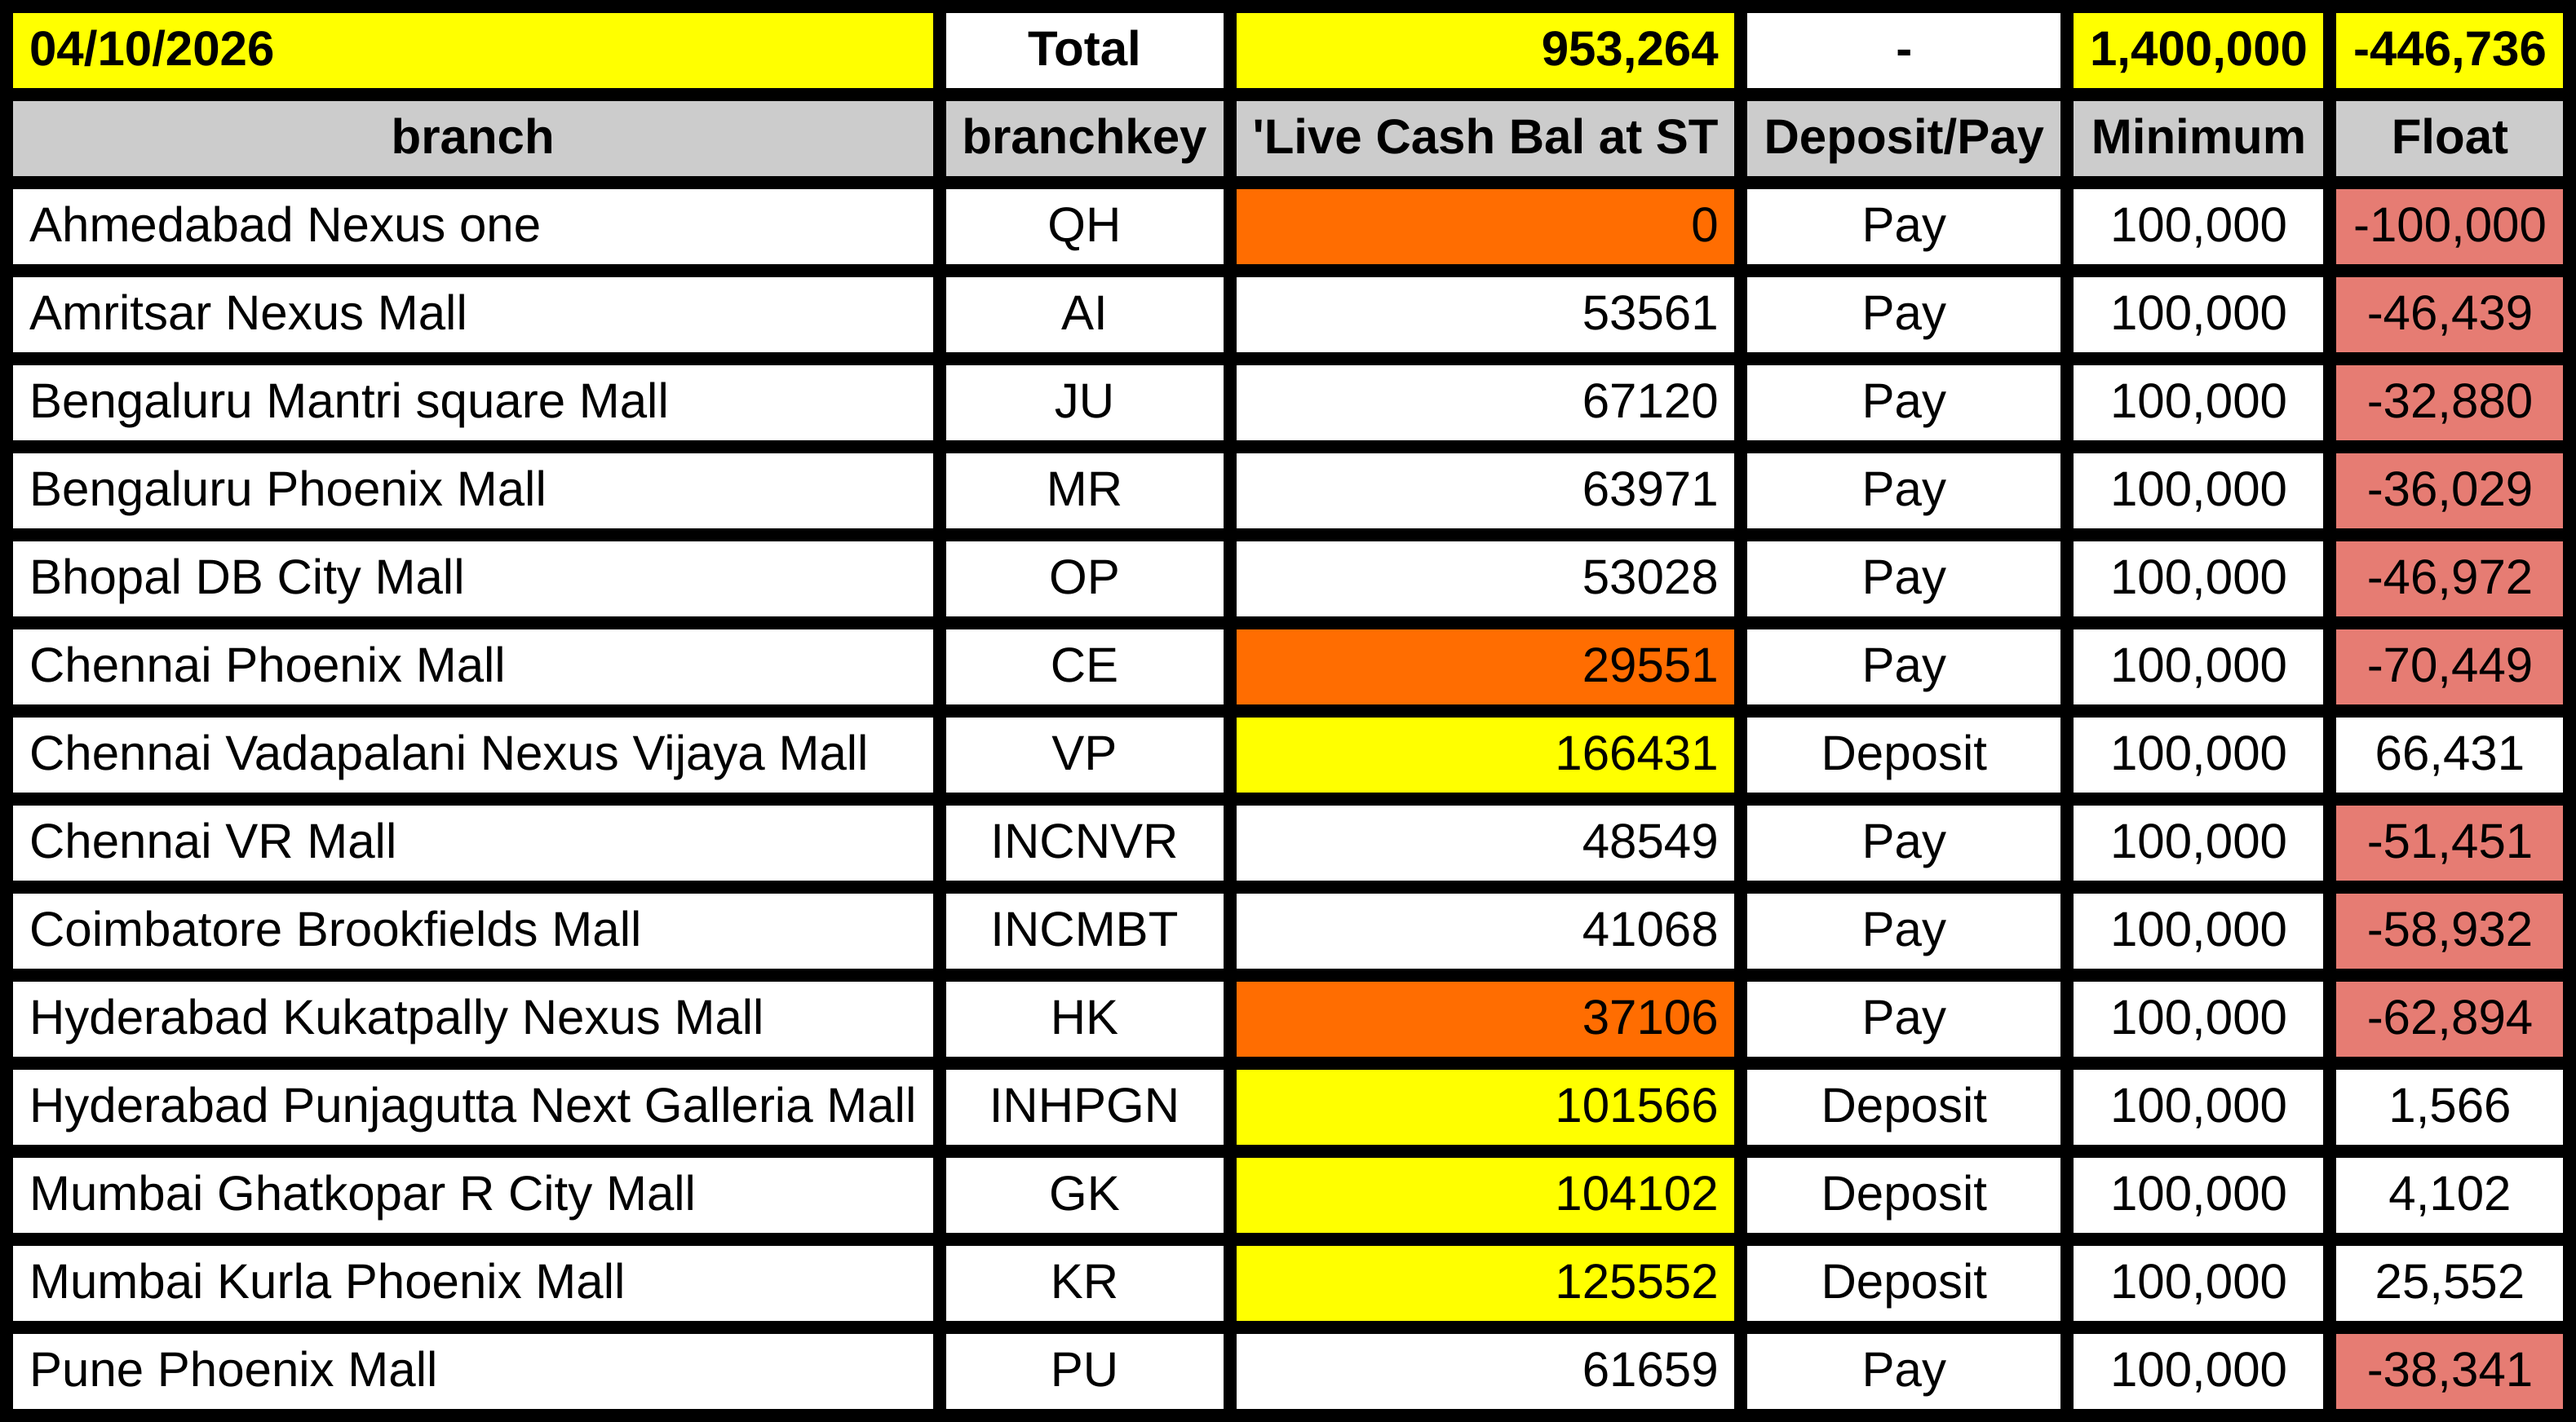
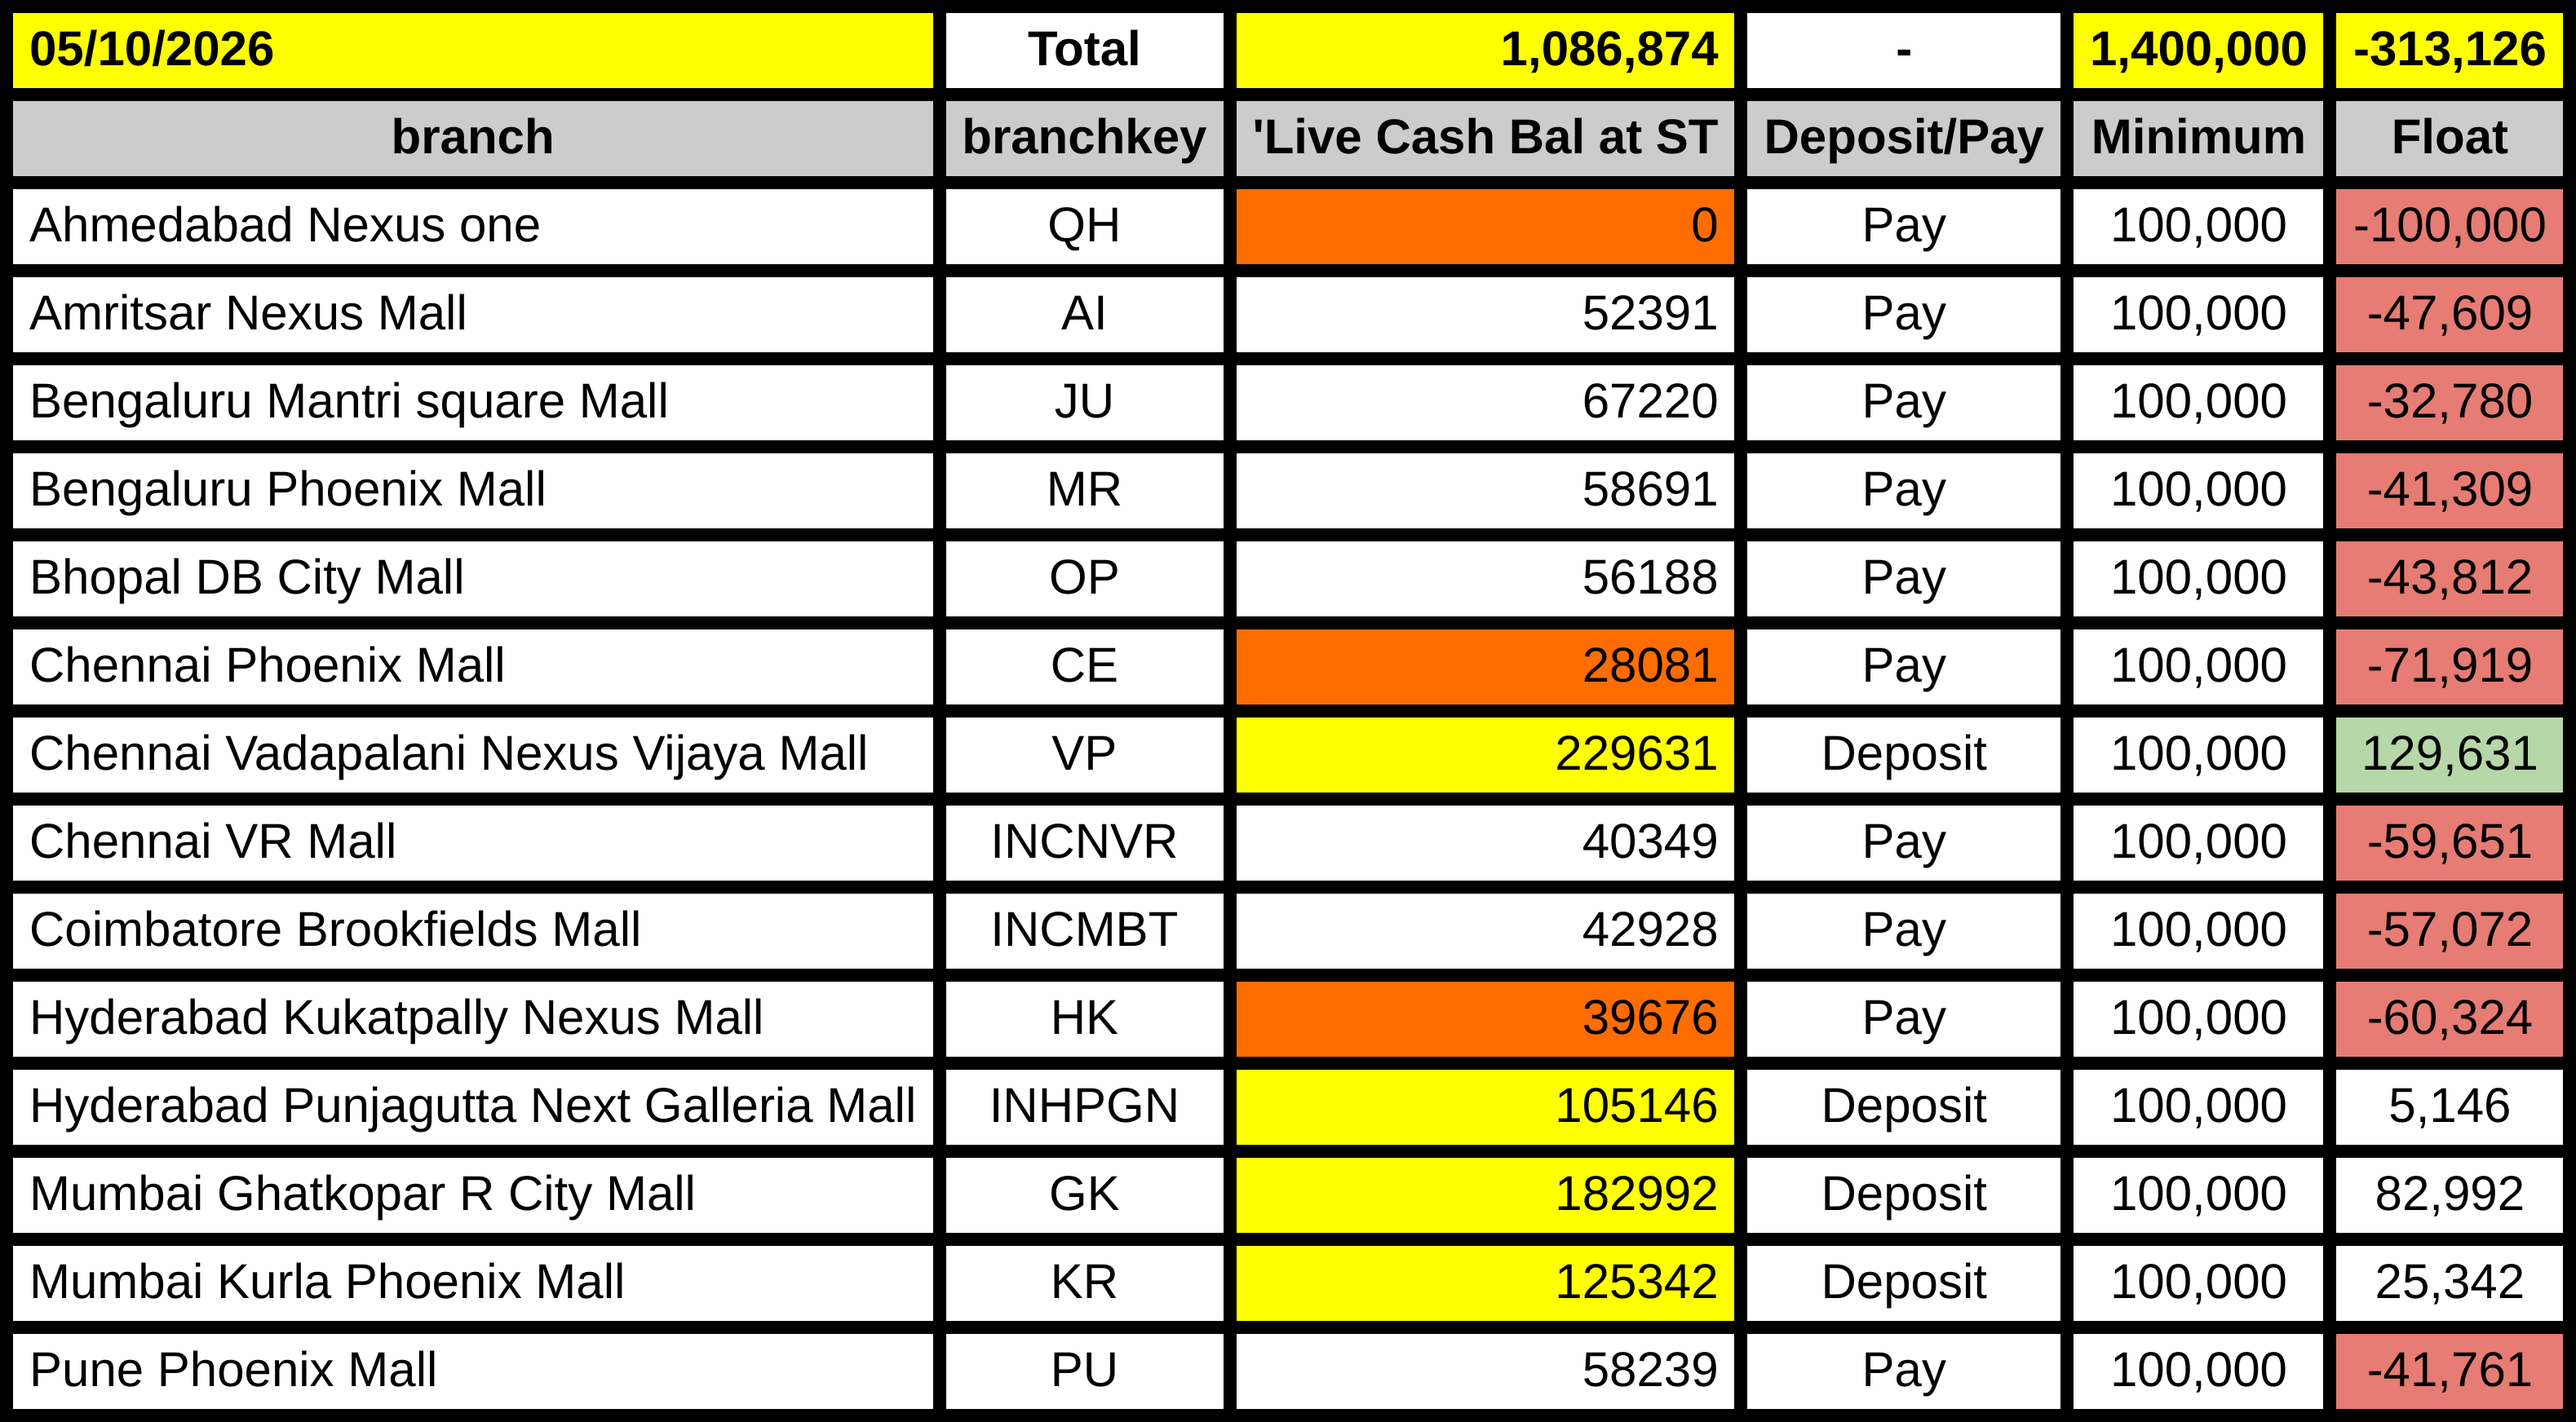
deploy: 1eb6ce62876c9d41067b4594acfaffc291ee4c8b

diff --git a/table.html b/table.html
@@ -21,7 +21,7 @@
           font-family: Arial, sans-serif;
           font-size: 30px;
           white-space: nowrap;
-        ">04/10/2026</td>
+        ">05/10/2026</td>
       
         <td style="
           background-color: #ffffff;
@@ -49,7 +49,7 @@
           font-family: Arial, sans-serif;
           font-size: 30px;
           white-space: nowrap;
-        ">953,264</td>
+        ">1,086,874</td>
       
         <td style="
           background-color: #ffffff;
@@ -91,7 +91,7 @@
           font-family: Arial, sans-serif;
           font-size: 30px;
           white-space: nowrap;
-        ">-446,736</td>
+        ">-313,126</td>
       </tr><tr>
         <td style="
           background-color: #cccccc;
@@ -301,7 +301,7 @@
           font-family: Arial, sans-serif;
           font-size: 30px;
           white-space: nowrap;
-        ">53561</td>
+        ">52391</td>
       
         <td style="
           background-color: #ffffff;
@@ -343,7 +343,7 @@
           font-family: Arial, sans-serif;
           font-size: 30px;
           white-space: nowrap;
-        ">-46,439</td>
+        ">-47,609</td>
       </tr><tr>
         <td style="
           background-color: #ffffff;
@@ -385,7 +385,7 @@
           font-family: Arial, sans-serif;
           font-size: 30px;
           white-space: nowrap;
-        ">67120</td>
+        ">67220</td>
       
         <td style="
           background-color: #ffffff;
@@ -427,7 +427,7 @@
           font-family: Arial, sans-serif;
           font-size: 30px;
           white-space: nowrap;
-        ">-32,880</td>
+        ">-32,780</td>
       </tr><tr>
         <td style="
           background-color: #ffffff;
@@ -469,7 +469,7 @@
           font-family: Arial, sans-serif;
           font-size: 30px;
           white-space: nowrap;
-        ">63971</td>
+        ">58691</td>
       
         <td style="
           background-color: #ffffff;
@@ -511,7 +511,7 @@
           font-family: Arial, sans-serif;
           font-size: 30px;
           white-space: nowrap;
-        ">-36,029</td>
+        ">-41,309</td>
       </tr><tr>
         <td style="
           background-color: #ffffff;
@@ -553,7 +553,7 @@
           font-family: Arial, sans-serif;
           font-size: 30px;
           white-space: nowrap;
-        ">53028</td>
+        ">56188</td>
       
         <td style="
           background-color: #ffffff;
@@ -595,7 +595,7 @@
           font-family: Arial, sans-serif;
           font-size: 30px;
           white-space: nowrap;
-        ">-46,972</td>
+        ">-43,812</td>
       </tr><tr>
         <td style="
           background-color: #ffffff;
@@ -637,7 +637,7 @@
           font-family: Arial, sans-serif;
           font-size: 30px;
           white-space: nowrap;
-        ">29551</td>
+        ">28081</td>
       
         <td style="
           background-color: #ffffff;
@@ -679,7 +679,7 @@
           font-family: Arial, sans-serif;
           font-size: 30px;
           white-space: nowrap;
-        ">-70,449</td>
+        ">-71,919</td>
       </tr><tr>
         <td style="
           background-color: #ffffff;
@@ -721,7 +721,7 @@
           font-family: Arial, sans-serif;
           font-size: 30px;
           white-space: nowrap;
-        ">166431</td>
+        ">229631</td>
       
         <td style="
           background-color: #ffffff;
@@ -752,7 +752,7 @@
         ">100,000</td>
       
         <td style="
-          background-color: #ffffff;
+          background-color: #b6d7a8;
           color: #000000;
           font-weight: normal;
           font-style: normal;
@@ -763,7 +763,7 @@
           font-family: Arial, sans-serif;
           font-size: 30px;
           white-space: nowrap;
-        ">66,431</td>
+        ">129,631</td>
       </tr><tr>
         <td style="
           background-color: #ffffff;
@@ -805,7 +805,7 @@
           font-family: Arial, sans-serif;
           font-size: 30px;
           white-space: nowrap;
-        ">48549</td>
+        ">40349</td>
       
         <td style="
           background-color: #ffffff;
@@ -847,7 +847,7 @@
           font-family: Arial, sans-serif;
           font-size: 30px;
           white-space: nowrap;
-        ">-51,451</td>
+        ">-59,651</td>
       </tr><tr>
         <td style="
           background-color: #ffffff;
@@ -889,7 +889,7 @@
           font-family: Arial, sans-serif;
           font-size: 30px;
           white-space: nowrap;
-        ">41068</td>
+        ">42928</td>
       
         <td style="
           background-color: #ffffff;
@@ -931,7 +931,7 @@
           font-family: Arial, sans-serif;
           font-size: 30px;
           white-space: nowrap;
-        ">-58,932</td>
+        ">-57,072</td>
       </tr><tr>
         <td style="
           background-color: #ffffff;
@@ -973,7 +973,7 @@
           font-family: Arial, sans-serif;
           font-size: 30px;
           white-space: nowrap;
-        ">37106</td>
+        ">39676</td>
       
         <td style="
           background-color: #ffffff;
@@ -1015,7 +1015,7 @@
           font-family: Arial, sans-serif;
           font-size: 30px;
           white-space: nowrap;
-        ">-62,894</td>
+        ">-60,324</td>
       </tr><tr>
         <td style="
           background-color: #ffffff;
@@ -1057,7 +1057,7 @@
           font-family: Arial, sans-serif;
           font-size: 30px;
           white-space: nowrap;
-        ">101566</td>
+        ">105146</td>
       
         <td style="
           background-color: #ffffff;
@@ -1099,7 +1099,7 @@
           font-family: Arial, sans-serif;
           font-size: 30px;
           white-space: nowrap;
-        ">1,566</td>
+        ">5,146</td>
       </tr><tr>
         <td style="
           background-color: #ffffff;
@@ -1141,7 +1141,7 @@
           font-family: Arial, sans-serif;
           font-size: 30px;
           white-space: nowrap;
-        ">104102</td>
+        ">182992</td>
       
         <td style="
           background-color: #ffffff;
@@ -1183,7 +1183,7 @@
           font-family: Arial, sans-serif;
           font-size: 30px;
           white-space: nowrap;
-        ">4,102</td>
+        ">82,992</td>
       </tr><tr>
         <td style="
           background-color: #ffffff;
@@ -1225,7 +1225,7 @@
           font-family: Arial, sans-serif;
           font-size: 30px;
           white-space: nowrap;
-        ">125552</td>
+        ">125342</td>
       
         <td style="
           background-color: #ffffff;
@@ -1267,7 +1267,7 @@
           font-family: Arial, sans-serif;
           font-size: 30px;
           white-space: nowrap;
-        ">25,552</td>
+        ">25,342</td>
       </tr><tr>
         <td style="
           background-color: #ffffff;
@@ -1309,7 +1309,7 @@
           font-family: Arial, sans-serif;
           font-size: 30px;
           white-space: nowrap;
-        ">61659</td>
+        ">58239</td>
       
         <td style="
           background-color: #ffffff;
@@ -1351,7 +1351,7 @@
           font-family: Arial, sans-serif;
           font-size: 30px;
           white-space: nowrap;
-        ">-38,341</td>
+        ">-41,761</td>
       </tr>
   </table>
 </body>
